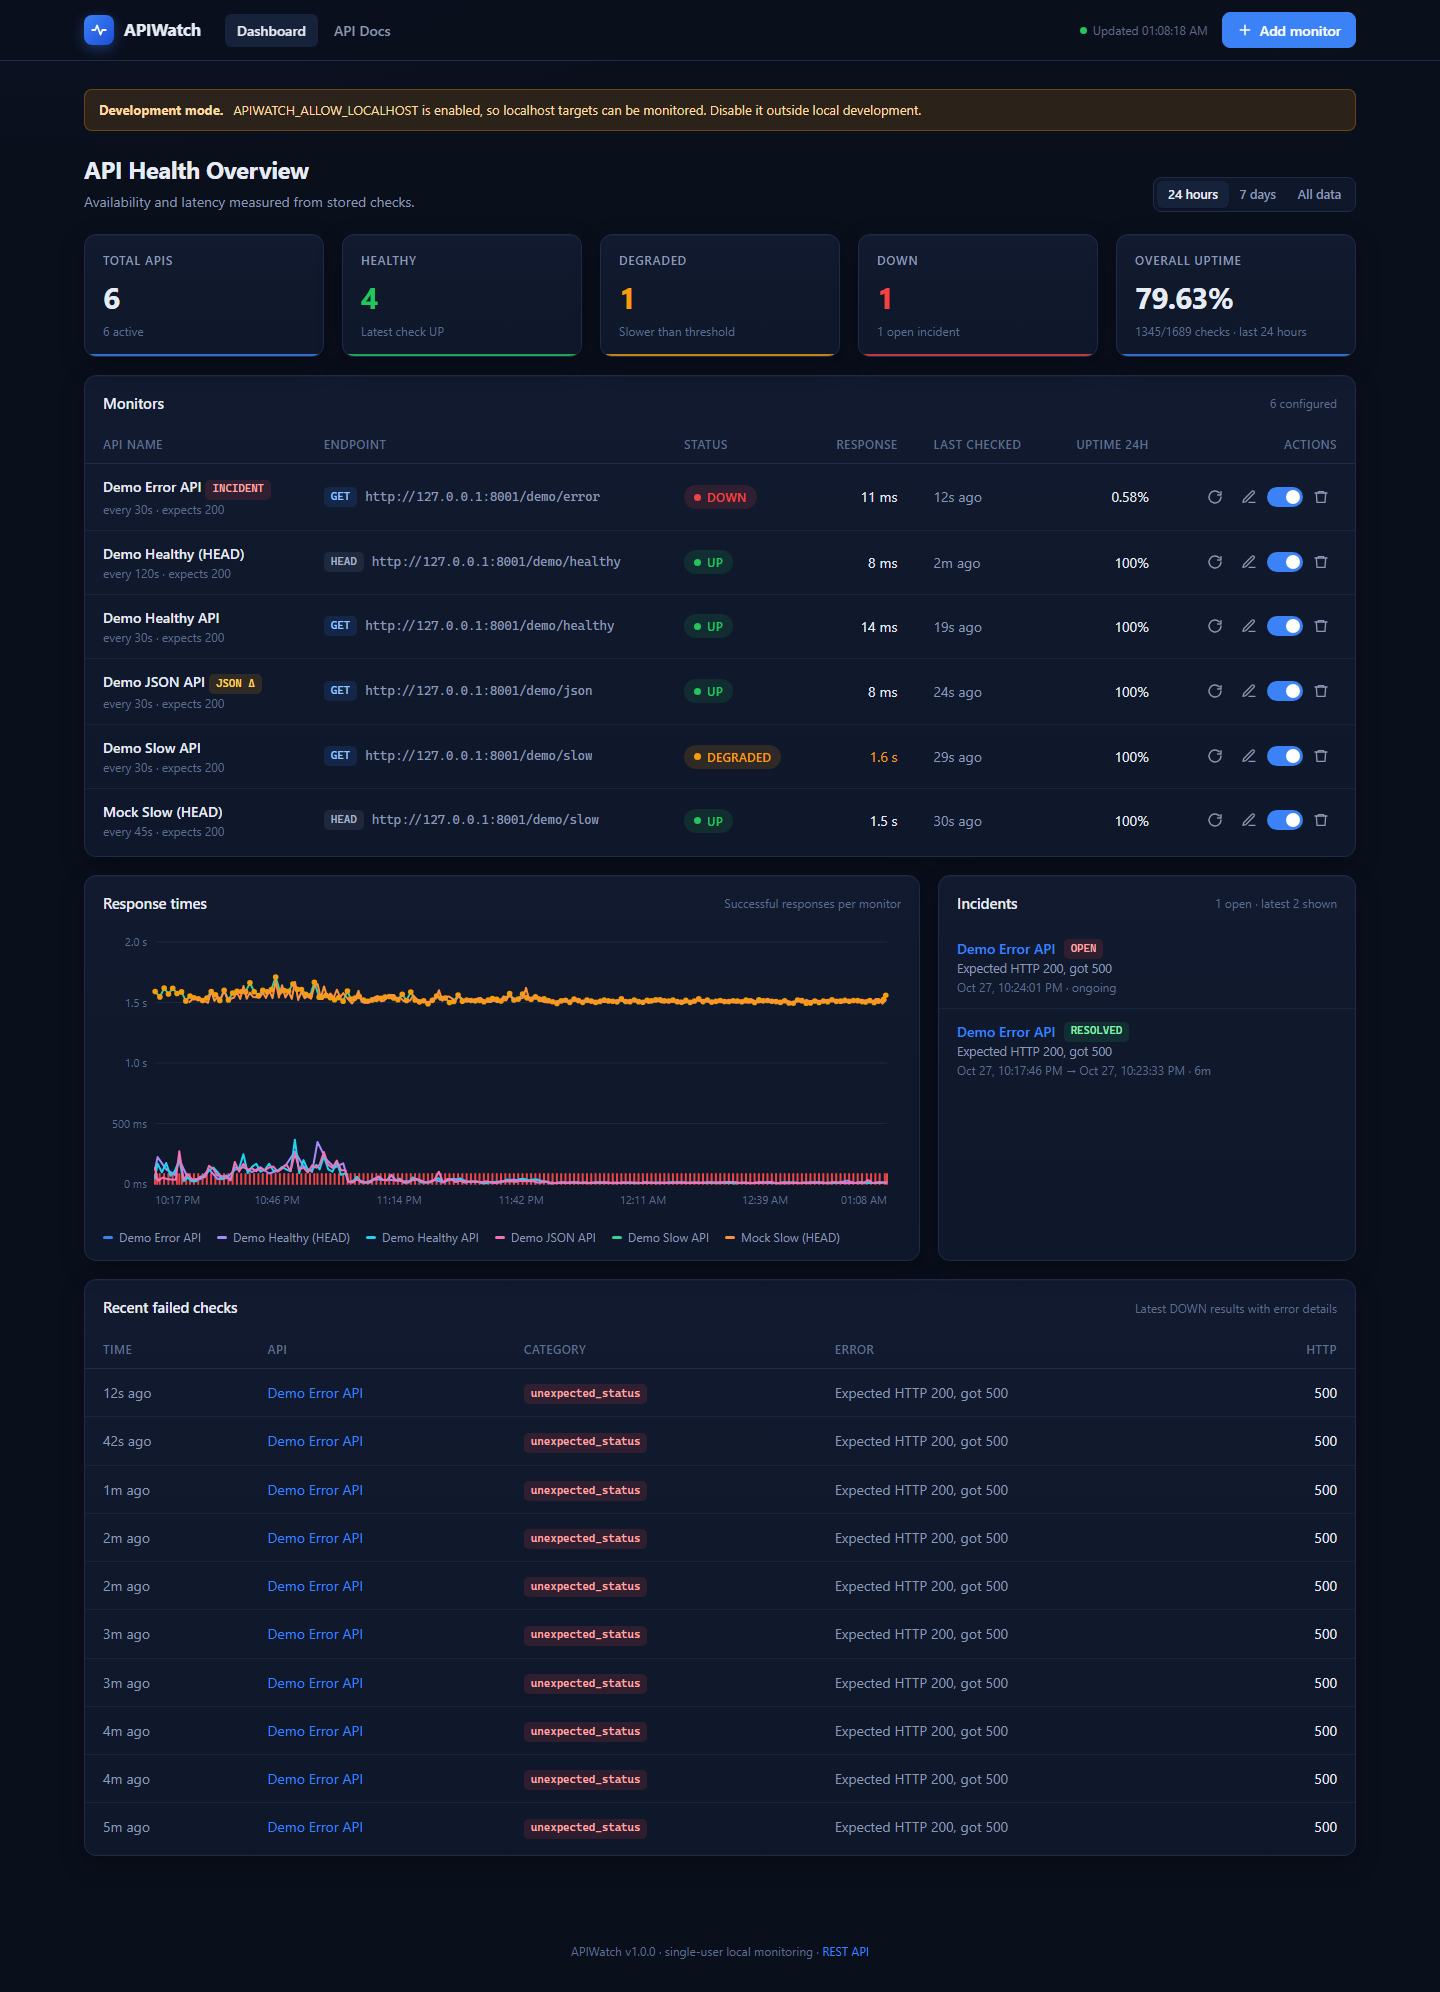
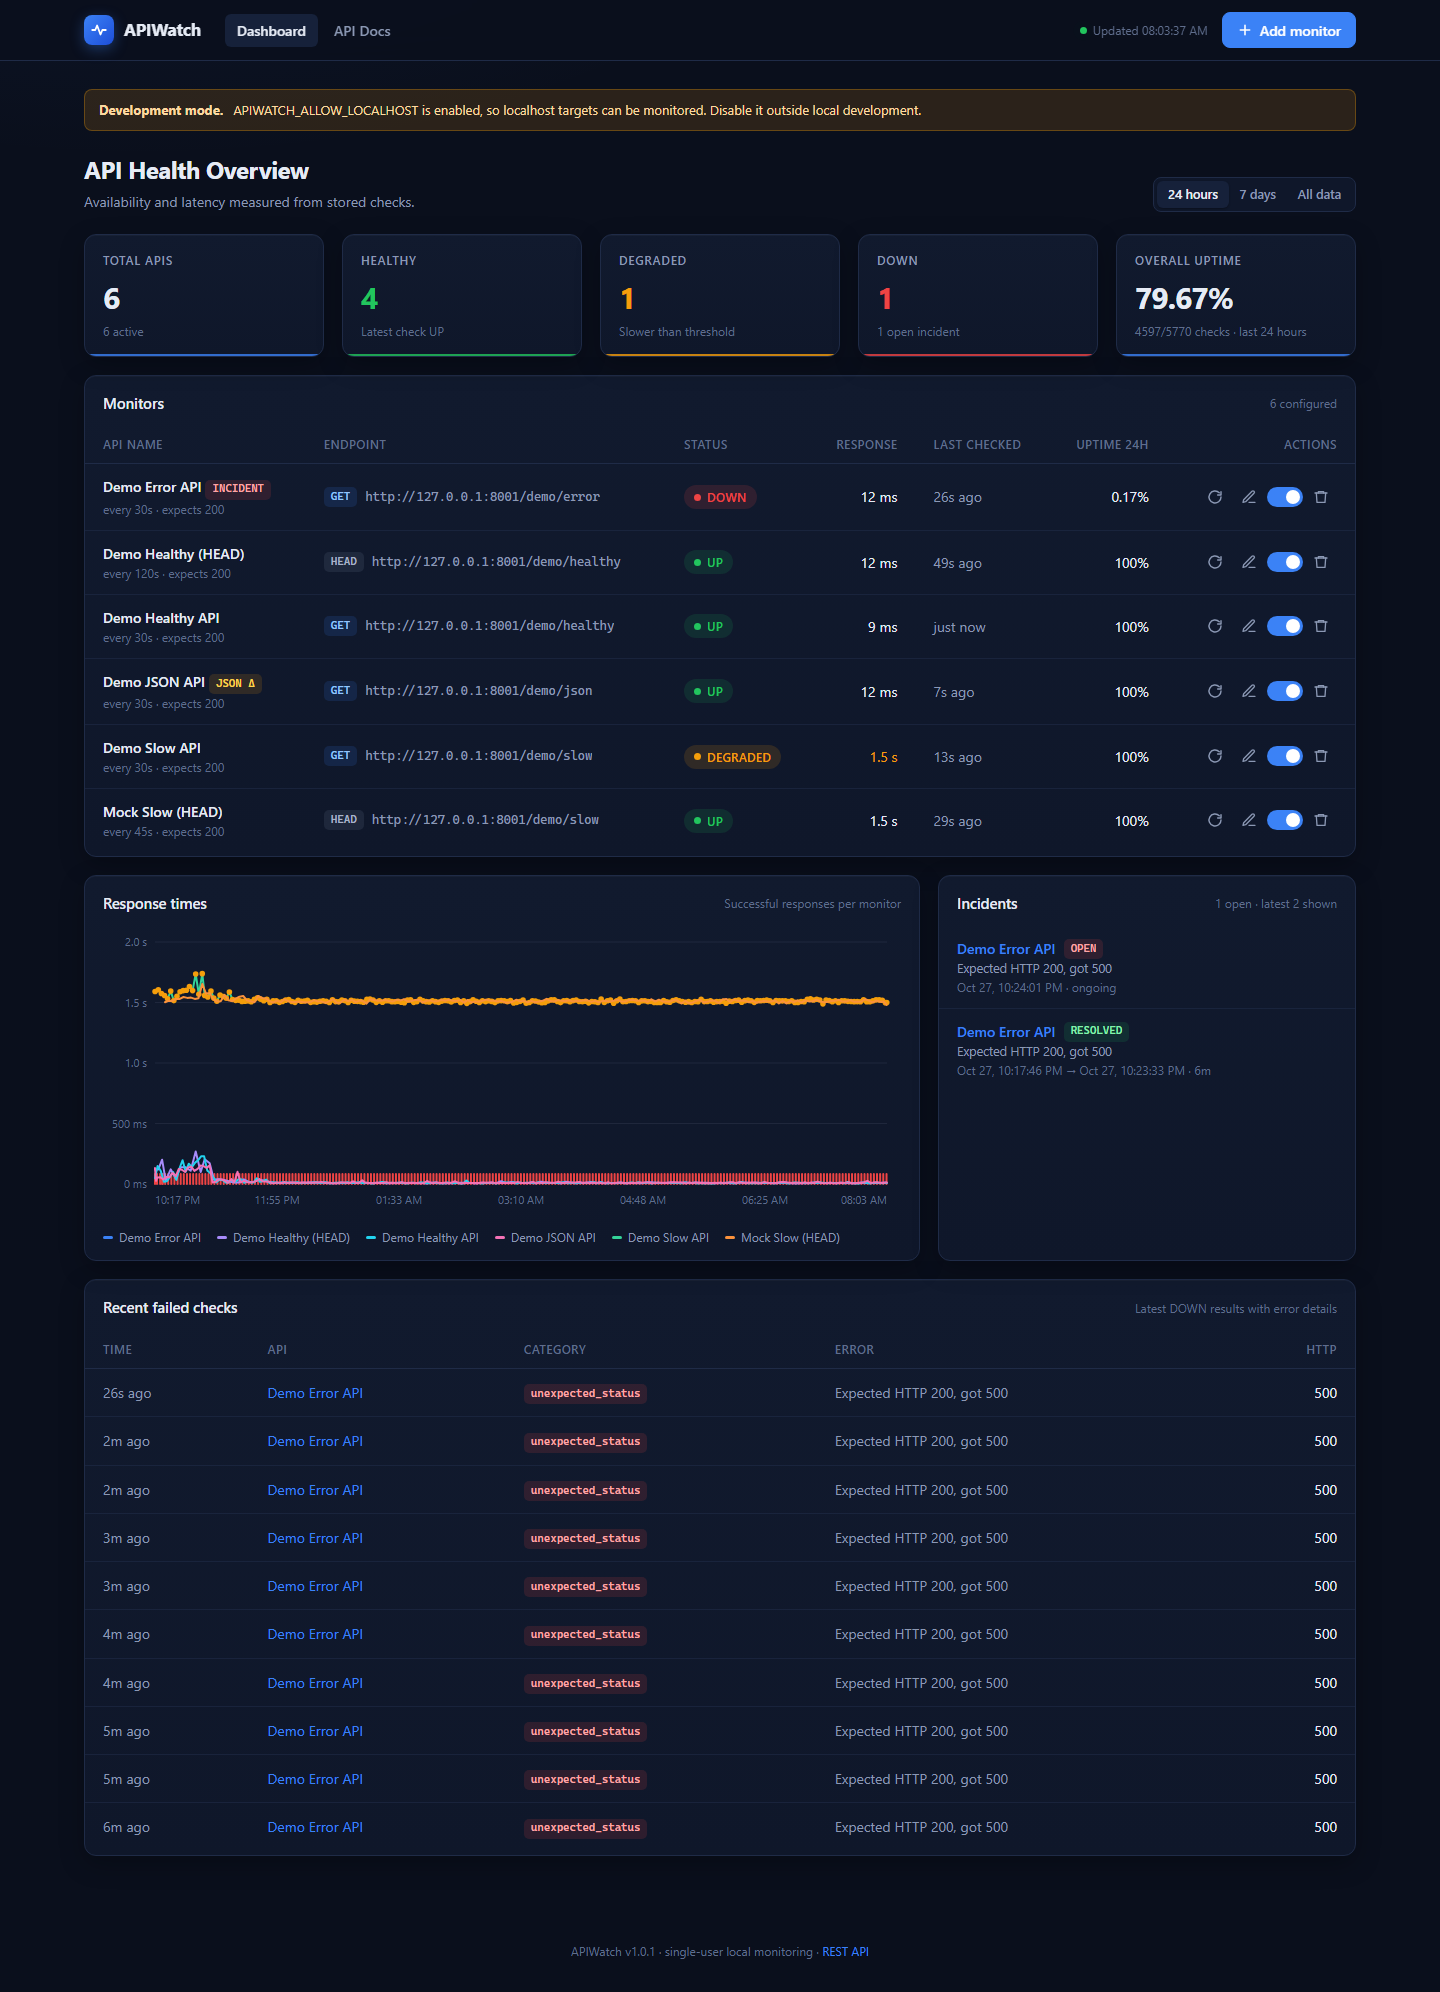
Release APIWatch 1.0.1
Fixes from a full code review of 1.0.0, including security hardening
of outbound checks.

Upgrade notes: API clients that approve JSON changes must now send the
reviewed pending_fields; JSON inspection with HEAD is rejected; JSON
numbers are a single "number" type; SQLite runs in WAL mode. Details
are in docs/releases/v1.0.1.md.

- Version 1.0.1 in pyproject.toml, app/__init__.py and uv.lock
- CHANGELOG section dated 2026-10-28, with a Changed list
- Release notes in docs/releases/v1.0.1.md
- Screenshots retaken from a running 1.0.1 instance

diff --git a/app/__init__.py b/app/__init__.py
@@ -1,3 +1,3 @@
 """APIWatch - lightweight API monitoring dashboard."""
 
-__version__ = "1.0.0"
+__version__ = "1.0.1"

diff --git a/docs/releases/v1.0.1.md b/docs/releases/v1.0.1.md
@@ -1,0 +1,85 @@
+# APIWatch v1.0.1
+
+A maintenance release with the fixes from a full code review of 1.0.0, including several
+security hardening changes. Upgrading is recommended.
+
+APIWatch is a single-user tool for local use. It has no authentication, so do not expose
+it to untrusted networks.
+
+## Upgrade notes
+
+- **API clients must send the reviewed fields to approve JSON changes.**
+  `POST /api/monitors/{id}/json-baseline/approve` now requires a body with the
+  `pending_fields` returned by `GET /api/monitors/{id}/json-baseline`, and answers `409`
+  if a newer response has replaced them. This is incompatible with 1.0.0 API clients; the
+  dashboard sends the fields itself.
+- **JSON inspection requires `GET`.** Creating or saving a monitor with `HEAD` and
+  `inspect_json` now returns `422`. Monitors saved this way by 1.0.0 still load; change
+  the method or turn inspection off the next time you edit them.
+- **JSON numbers have a single type.** Whole numbers and decimals are both `number`, so
+  `19.99` → `20` is no longer reported as a change. Baselines saved by 1.0.0 are read
+  accordingly.
+- **SQLite runs in WAL mode.** While APIWatch runs, `apiwatch.db-wal` and
+  `apiwatch.db-shm` sit next to the database, and recent changes may still be in
+  `apiwatch.db-wal`. Keep `data/` on a local disk, and stop APIWatch before copying or
+  moving the database.
+- The new index for failed checks is created on start-up. No migration is needed.
+
+To upgrade a clone, stop APIWatch, run `git pull` and `uv sync`, and start it again.
+
+## Fixes
+
+- URLs the HTTP client cannot send (for example a DEL character or `i❤.ws`) were accepted
+  and then crashed every check. They are now rejected when the monitor is saved.
+- Database work no longer runs on the event loop, so a slow write or a long dashboard
+  query can no longer inflate other checks' response times or make them time out.
+- A check's result is discarded instead of being stored under a monitor that was edited,
+  or deleted and re-created, while the check was running.
+- A monitor whose host stopped resolving can be paused and edited again.
+- Turning JSON inspection off no longer deletes the baseline, so changes made meanwhile
+  are reported instead of silently accepted.
+- Deeply nested JSON no longer crashes a check, and errors while reading a body for JSON
+  inspection no longer turn a `200` into DOWN.
+- `python -m app.database` now creates the tables.
+- Dashboard: refreshes are queued instead of dropped, polling pauses in hidden tabs, and
+  the incident count, chart labels and the 404 page's "Add monitor" button are fixed.
+
+## Security
+
+- Cookies are never stored or sent. Requests go to pinned IP addresses, so a cookie set by
+  one monitored host could otherwise reach another hostname on the same address.
+- International host names are resolved by their IDNA 2008 name, the one sent as `Host`
+  and TLS SNI. Before, `straße.de` could be pinned to the address of `strasse.de`.
+- Response bodies are requested uncompressed, and compressed bodies are inflated only up
+  to the response size limit.
+- IPv6 ranges that embed IPv4 addresses (6to4, Teredo, NAT64, IPv4-compatible) are blocked
+  explicitly. On Python 3.12.0–3.12.3, 6to4 addresses counted as public.
+- Error messages that could quote response bytes are replaced by fixed text before they
+  are stored.
+- DNS lookups run in a dedicated thread pool, so hung lookups cannot starve other work.
+
+These measures reduce SSRF risk. They do not remove it entirely: for example, a public
+host that relays requests into a private network cannot be detected. See the
+"Security and deployment limitations" section of the README and `SECURITY.md`.
+
+## Requirements and installation
+
+- Python 3.12 or 3.13 (tested in CI) and [uv](https://docs.astral.sh/uv/).
+
+```bash
+git clone https://github.com/berkdogutan/ApiWatch.git
+cd ApiWatch
+uv sync
+uv run apiwatch            # http://127.0.0.1:8000
+```
+
+The README describes the offline demo (`demo.mock_api` and `demo.seed`).
+
+## Known limitations
+
+- Run a single Uvicorn worker. Multiple workers or replicas duplicate scheduled checks.
+- No authentication, notifications, history retention or schema migrations.
+- Only `GET`/`HEAD` without custom headers. JSON comparison covers top-level fields only.
+
+The full list of changes is in
+[CHANGELOG.md](https://github.com/berkdogutan/ApiWatch/blob/v1.0.1/CHANGELOG.md).

diff --git a/CHANGELOG.md b/CHANGELOG.md
@@ -4,9 +4,22 @@ All notable changes to APIWatch are documented in this file.
 The format follows [Keep a Changelog](https://keepachangelog.com/en/1.1.0/) and the
 project uses [Semantic Versioning](https://semver.org/).
 
-## [Unreleased]
+## [1.0.1] - 2026-10-28
 
-Fixes from a full code review.
+Fixes from a full code review. One change needs action from API clients: approving JSON
+changes now requires the reviewed `pending_fields` (see Changed).
+
+### Changed
+- Approving JSON changes requires the reviewed `pending_fields` and is rejected with
+  `409` if a newer response replaced them. This is incompatible with 1.0.0 API clients;
+  the dashboard sends the fields itself.
+- JSON inspection with `HEAD` is rejected with `422` (HEAD responses have no body).
+  Monitors saved this way by 1.0.0 still load; fix them on the next edit.
+- JSON numbers are a single `number` type, so `19.99` → `20` is no longer a type change.
+  Baselines saved by 1.0.0 are read accordingly.
+- SQLite runs in WAL mode: while APIWatch runs, `apiwatch.db-wal` and `apiwatch.db-shm`
+  sit next to the database. Keep `data/` on a local disk, and stop APIWatch before
+  copying or moving the database.
 
 ### Fixed
 - URLs the HTTP client cannot send (for example a DEL character, `i❤.ws`, `010.0.0.1`)
@@ -24,11 +37,6 @@ Fixes from a full code review.
   re-validates a changed URL).
 - Turning JSON inspection off no longer deletes the baseline, so changes made meanwhile
   are reported instead of silently accepted.
-- Approving JSON changes now requires the reviewed `pending_fields` and is rejected with
-  `409` if a newer response replaced them.
-- JSON inspection with `HEAD` is rejected (HEAD responses have no body).
-- JSON numbers are a single `number` type, so `19.99` → `20` is no longer a type change.
-  Baselines saved by 1.0.0 are read accordingly.
 - Errors while reading a body for JSON inspection are warnings and no longer turn a
   `200` into DOWN.
 - If an address does not answer within its share of the timeout, the next validated
@@ -111,4 +119,5 @@ First public release.
 - No notifications, history retention or schema migrations.
 - See the README section "Security and deployment limitations" for the full list.
 
+[1.0.1]: docs/releases/v1.0.1.md
 [1.0.0]: docs/releases/v1.0.0.md
